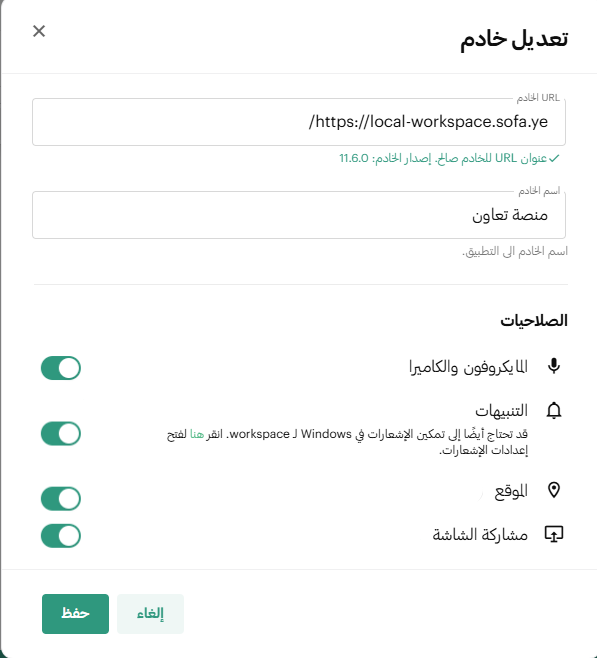
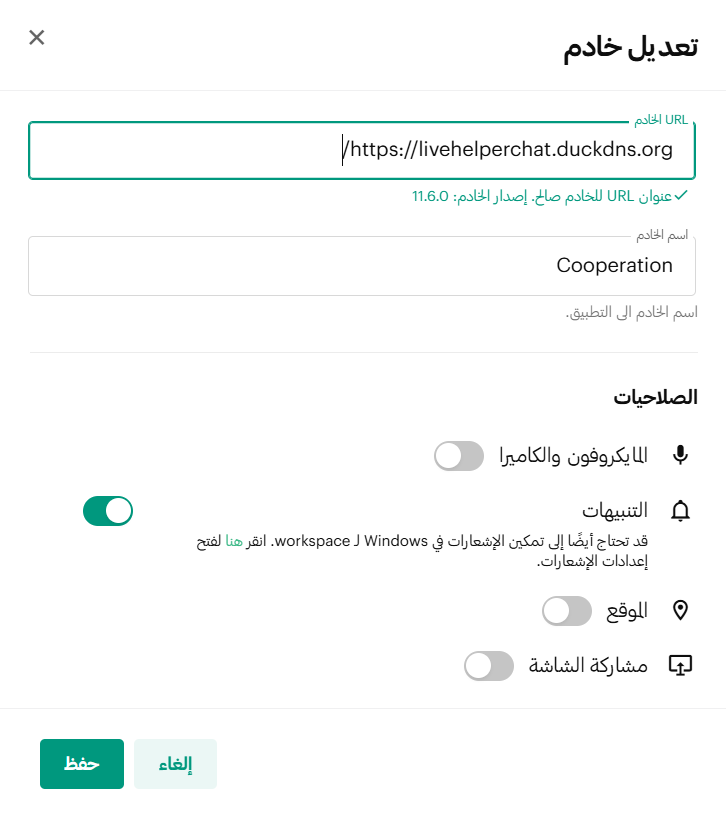
fix : the images of the connect-to-multiple-servers.mdx Also, fix the double guideline in the side bar and keep only one

diff --git a/src/styles/custom.css b/src/styles/custom.css
@@ -19,6 +19,7 @@
 /* 3. تعديل المسافات بين عناصر القائمة لتطابق التصميم النظيف */
 .sidebar-content li {
     margin-bottom: 4px !important; 
+    border: none !important;
 }
 
 /* 4. إزالة الخط السفلي عند الوقوف على الروابط في السايد بار */
@@ -101,6 +102,7 @@ kbd, .kbd-shortcut {
     border-inline-start-width: 1.5px !important;
     padding-block: 0.5rem !important;
 }
+
 /* تخصيص أيقونات البطاقات داخل CardGrid */
 .sl-markdown-content .card-grid .card {
     /* تغيير لون أيقونة الـ SVG إلى الأخضر */